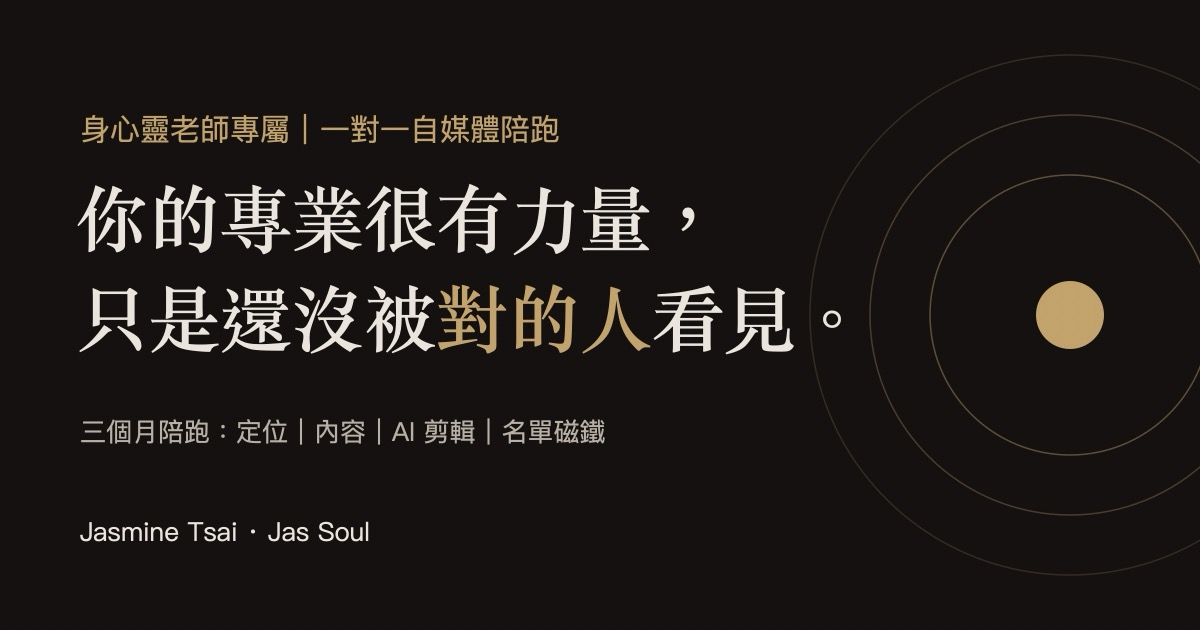
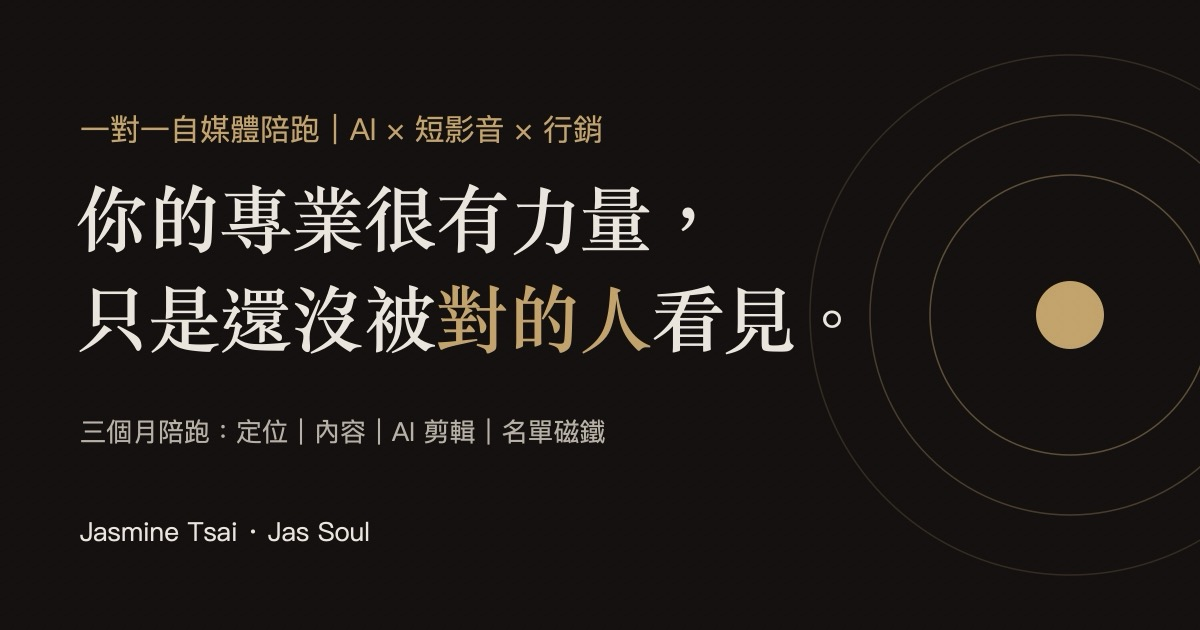
Open coaching page to all personal brands, not only spiritual teachers

Changed region(s): [[0.0617, 0.181, 0.5242, 0.2413]]

diff --git a/index.html b/index.html
@@ -3,14 +3,14 @@
 <head>
 <meta charset="utf-8">
 <meta name="viewport" content="width=device-width, initial-scale=1">
-<title>AI × 自媒體 × 行銷陪跑｜身心靈老師專屬 · Jas Soul</title>
-<meta name="description" content="給身心靈與療癒工作者的三個月一對一自媒體陪跑。用 AI 加速、用你的聲音說話，從看見自己，到被看見、被付費。">
-<meta property="og:title" content="AI × 自媒體 × 行銷陪跑｜身心靈老師專屬">
+<title>一對一自媒體陪跑｜AI × 短影音 × 行銷，三個月從定位到被付費 · Jas Soul</title>
+<meta name="description" content="三個月一對一自媒體陪跑，給想經營個人品牌、開始副業或用專業接案的人。每週一堂課加學習單，用 AI 加速、用你的聲音說話，從定位、內容到第一次被付費。">
+<meta property="og:title" content="一對一自媒體陪跑｜三個月，從定位走到被付費">
 <meta property="og:description" content="三個月一對一陪跑：定位、內容、AI 剪輯、名單磁鐵到第一次被付費。教你做，不是幫你做。">
 <meta property="og:image" content="https://selfmedia.jas-soul.com/og.jpg">
 <meta property="og:image:width" content="1200">
 <meta property="og:image:height" content="630">
-<meta property="og:image:alt" content="身心靈老師專屬一對一自媒體陪跑：你的專業很有力量，只是還沒被對的人看見">
+<meta property="og:image:alt" content="一對一自媒體陪跑：你的專業很有力量，只是還沒被對的人看見">
 <meta property="og:url" content="https://selfmedia.jas-soul.com/">
 <meta property="og:type" content="website">
 <meta property="og:locale" content="zh_TW">
@@ -340,9 +340,9 @@ footer a{text-decoration:none;color:var(--on-ink-dim)}footer a:hover{color:var(-
  "@context": "https://schema.org",
  "@type": "Service",
  "@id": "https://selfmedia.jas-soul.com/#service",
- "name": "一對一自媒體陪跑（身心靈老師專屬）",
+ "name": "一對一自媒體陪跑",
  "serviceType": "自媒體經營一對一陪跑",
- "description": "給身心靈與療癒工作者的三個月一對一自媒體陪跑：定位、內容、AI 剪輯、名單磁鐵到第一次被付費。",
+ "description": "三個月一對一自媒體陪跑：定位、內容、AI 剪輯、名單磁鐵到第一次被付費。適合想經營個人品牌、副業或接案的人。",
  "url": "https://selfmedia.jas-soul.com/",
  "image": "https://selfmedia.jas-soul.com/og.jpg",
  "areaServed": {
@@ -352,7 +352,7 @@ footer a{text-decoration:none;color:var(--on-ink-dim)}footer a:hover{color:var(-
  "inLanguage": "zh-Hant",
  "audience": {
   "@type": "Audience",
-  "audienceType": "身心靈老師、療癒工作者"
+  "audienceType": "想經營個人品牌、副業或接案的人"
  },
  "offers": {"@type": "Offer", "name": "三個月一對一陪跑（首期）", "price": "26000", "priceCurrency": "TWD", "url": "https://selfmedia.jas-soul.com/#pricing"},
  "provider": {
@@ -399,9 +399,9 @@ footer a{text-decoration:none;color:var(--on-ink-dim)}footer a:hover{color:var(-
 <section class="hero dark" id="top">
   <div class="wrap hero-grid">
     <div>
-      <span class="pill reveal"><i></i>AI × 自媒體 × 行銷｜身心靈老師專屬陪跑</span>
+      <span class="pill reveal"><i></i>AI × 自媒體 × 行銷｜一對一陪跑</span>
       <h1 class="reveal">你的專業很有力量，<br>只是還沒被<em>對的人</em><span style="white-space:nowrap">看見。</span></h1>
-      <p class="sub reveal">給身心靈老師與療癒工作者的 12 週一對一陪跑。<b>用 AI 加速，用你的聲音說話</b>，把你的天賦做成穩定被看見、被詢問、被付費的自媒體。</p>
+      <p class="sub reveal">給想經營個人品牌、開始副業或用專業接案的你，12 週一對一陪跑。<b>用 AI 加速，用你的聲音說話</b>，把你的專業做成穩定被看見、被詢問、被付費的自媒體。</p>
       <div class="hero-cta reveal">
         <a class="btn btn-gold" href="#apply">聊聊看自己適不適合 <span class="arrow">→</span></a>
         <a class="btn btn-line" href="#curriculum">看 12 週大綱</a>
@@ -431,15 +431,15 @@ footer a{text-decoration:none;color:var(--on-ink-dim)}footer a:hover{color:var(-
   <div class="wrap">
     <div class="section-head reveal">
       <span class="eyebrow">Sound Familiar</span>
-      <h2 class="title">做身心靈這一行，<br>自媒體卡住的地方特別不一樣</h2>
+      <h2 class="title">想經營自媒體，<br>卡住的常常不是努力不夠</h2>
       <p class="lede">不是你不夠努力。是一般的自媒體課，沒有人告訴你這些事怎麼處理。</p>
     </div>
     <div class="pain-list">
-      <div class="pain-row reveal"><h3>「專業有，但發文像在對空氣說話」</h3><p>個案說你很準、很被療癒，社群上卻幾乎沒人互動，也不知道該講什麼。</p></div>
+      <div class="pain-row reveal"><h3>「有專業，但發文像在對空氣說話」</h3><p>客戶說你很專業、很有幫助，社群上卻幾乎沒人互動，也不知道該講什麼。</p></div>
       <div class="pain-row reveal"><h3>「不敢露臉，怕被認識的人看到」</h3><p>家人、同事、前同學都在追蹤名單裡。想被看見，又怕被看見。</p></div>
       <div class="pain-row reveal"><h3>「不想硬銷，談錢又好像違背初心」</h3><p>怕太商業，所以什麼都不敢說清楚；收費標準一改再改，被殺價就心軟。</p></div>
       <div class="pain-row reveal"><h3>「用 AI 寫出來的，不像我」</h3><p>貼上去就是一股罐頭味。你的故事、語氣、判斷，AI 一個都沒有。</p></div>
-      <div class="pain-row reveal"><h3>「怕踩到療效與廣告規範」</h3><p>「保證」「治好」「一定會」，一不小心就寫出來了，又沒人可以問。</p></div>
+      <div class="pain-row reveal"><h3>「不知道什麼能說、什麼不能說」</h3><p>「保證」「最有效」「一定會」，一不小心就寫成誇大的廣告，又沒人可以問。</p></div>
     </div>
     <div class="pivot reveal">
       <p>這門陪跑要做的，是讓你<em>用真實的自己</em>被看見，<br>再用 AI 把「說出來」這件事變輕、變快。</p>
@@ -458,24 +458,24 @@ footer a{text-decoration:none;color:var(--on-ink-dim)}footer a:hover{color:var(-
     <div class="who-grid">
       <article class="who main reveal">
         <span class="tag">主要對象</span>
-        <h3>身心靈與療癒工作者</h3>
-        <p class="d">你的工作建立在信任上，所以你的自媒體也要長得像「你」。我懂這個圈子的語言，也懂怎麼把它說清楚、說安全、說得有人想找你。</p>
-        <div class="roles"><span>塔羅</span><span>脈輪・靈氣</span><span>占星・命理</span><span>諮詢・教練</span><span>身心靈講師</span><span>剛起步的兼職老師</span></div>
+        <h3>想用專業經營個人品牌的人</h3>
+        <p class="d">你的工作建立在信任上，所以你的自媒體也要長得像「你」。我陪你把專業說清楚、說得安全，也說得讓人想找你。</p>
+        <div class="roles"><span>自由工作者・接案者</span><span>講師・教練・顧問</span><span>身心靈與療癒工作者</span><span>小店家・個人品牌</span><span>剛起步的兼職老師</span></div>
         <ul>
           <li>用你自己的語言說專業，不變成罐頭行銷</li>
           <li>學會不硬銷也能讓人來問的賣法</li>
           <li>從單次服務，慢慢走到課程與產品階梯</li>
           <li>處理不敢露臉、不敢開價這些內在卡點</li>
-          <li>寫得有力量，也避開療效與保證式用語</li>
+          <li>寫得有力量，也避開誇大與保證式用語</li>
         </ul>
       </article>
       <article class="who side reveal">
-        <span class="tag">也歡迎</span>
-        <h3>想認真經營自媒體的人</h3>
-        <p class="d">不一定是身心靈背景。只要你想用真實的自己，建立個人品牌或開始一份副業。</p>
+        <span class="tag">也很適合</span>
+        <h3>想開始副業、還在摸索的人</h3>
+        <p class="d">還沒有明確的服務也沒關係。只要你想用真實的自己，建立個人品牌或開始一份副業。</p>
         <div class="roles"><span>上班族想做副業</span><span>專業工作者</span><span>想不露臉經營</span><span>有帳號但卡關</span></div>
         <ul>
-          <li>同一套 12 週流程，內在卡點也一起陪你處理</li>
+          <li>從找到方向開始，內在卡點也一起陪你處理</li>
           <li>找到定位、固定產出、第一次有人來問</li>
           <li>AI 與短影音的做法，一樣完整帶你做</li>
         </ul>
@@ -493,7 +493,7 @@ footer a{text-decoration:none;color:var(--on-ink-dim)}footer a:hover{color:var(-
     </div>
     <div class="diff-rows">
       <div class="diff-row reveal"><span class="no">01</span><h3>教你做，不是幫你做</h3><p>我是教練，不是代操。我陪你找定位、教你方法、回饋你的作品，內容由你自己產出，聲音從頭到尾都是你的。</p></div>
-      <div class="diff-row reveal"><span class="no">02</span><h3>懂身心靈的行銷人</h3><p>產品行銷出身，自己也是脈輪解讀療癒師。你不用先把「靈性」翻譯成「商業」給我聽，兩邊的語言我都會，也會提醒廣告與療效用語的界線。</p></div>
+      <div class="diff-row reveal"><span class="no">02</span><h3>懂行銷，也懂人的卡點</h3><p>產品行銷出身，也長期做一對一的陪伴。不只教你方法，也陪你處理不敢露臉、不敢開價這些卡點，並提醒廣告與誇大用語的界線。</p></div>
       <div class="diff-row reveal"><span class="no">03</span><h3>AI 是工具，聲音是你的</h3><p>先有定位，再用 AI。我自己每天用 AI 做產品、剪影片，教你的是整套流程，而不是一份 prompt 清單。</p></div>
       <div class="diff-row reveal"><span class="no">04</span><h3>內在卡點一起處理</h3><p>不敢露臉、不敢開價、沒人看就想放棄，這些才是卡關的真正原因。我用教練式的提問，陪你一關一關處理。</p></div>
       <div class="diff-row reveal"><span class="no">05</span><h3>終點是被付費，不是漲粉</h3><p>12 週從目標卡走到服務定價與成交對話。粉絲數只是過程，有人來問、有人付費才是結果。</p></div>
@@ -517,7 +517,7 @@ footer a{text-decoration:none;color:var(--on-ink-dim)}footer a:hover{color:var(-
       <div class="ai-row" role="row">
         <div class="step" role="cell">選題<small>第 3–4 週</small></div>
         <div class="by-ai" role="cell"><span class="lbl">AI</span>用你的受眾語言，一次發散 30 個題目的候選</div>
-        <div class="by-me" role="cell"><span class="lbl">你</span>用真實的個案經驗與觀點，篩出真正想說的</div>
+        <div class="by-me" role="cell"><span class="lbl">你</span>用真實的經驗與觀點，篩出真正想說的</div>
       </div>
       <div class="ai-row" role="row">
         <div class="step" role="cell">文案<small>第 5–6 週</small></div>
@@ -659,7 +659,7 @@ footer a{text-decoration:none;color:var(--on-ink-dim)}footer a:hover{color:var(-
       <div class="beat"><span class="day">ASYNC</span><h3>非同步陪伴</h3><p>我看你的作品、錄語音回饋，LINE 上的小問題在固定時段回覆。</p><span class="t">每週 1 小時</span></div>
       <div class="beat"><span class="day">WORKSHEET</span><h3>學習單</h3><p>每堂課一份線上學習單，課後跟著做、填完交回，我幫你批改，給你具體的修改建議。</p><span class="t">每堂一份</span></div>
     </div>
-    <p class="how-note reveal">另外還有：第 6 週期中檢查、第 6–8 週低潮陪伴、每堂線上學習單與個人紀錄，以及廣告、療效用語與版權的提醒。</p>
+    <p class="how-note reveal">另外還有：第 6 週期中檢查、第 6–8 週低潮陪伴、每堂線上學習單與個人紀錄，以及廣告、誇大用語與版權的提醒。</p>
   </div>
 </section>
 
@@ -670,15 +670,15 @@ footer a{text-decoration:none;color:var(--on-ink-dim)}footer a:hover{color:var(-
     <div class="about-text">
       <div class="reveal">
         <span class="eyebrow">About Jasmine</span>
-        <h2 class="title">從幫別人說故事，<br>到陪人看見自己</h2>
-        <p class="big">我曾在科技業擔任產品行銷與產品經理，後來協助講師打造線上課程。接著我認識了自己<em>感受訊息、轉譯與解讀</em>的天賦，成為脈輪解讀療癒師。</p>
+        <h2 class="title">從幫品牌說故事，<br>到陪你被看見</h2>
+        <p class="big">我曾在科技業擔任產品行銷與產品經理，經營過品牌社群和自己的個人品牌，也協助講師打造 20+ 堂線上課程。這些年我最常做的事，就是<em>找出受眾在意什麼，再讓對的人看見你</em>。</p>
         <p class="p">現在我把這些放在一起：用行銷的結構幫你說清楚，用教練式的提問陪你看見卡點，再用 AI 把「說出來」變得輕鬆。我自己的帳號，露臉與不露臉都做過，企劃、口說、剪片都是自己來，所以我教的每一步，都是我走過的。</p>
       </div>
       <div class="skills reveal">
         <div class="skill"><div class="from"><b>科技業產品行銷、產品經理</b>定位、受眾研究、數據與漏斗</div><div class="to">先搞清楚「誰需要你」，再決定說什麼、賣什麼</div></div>
         <div class="skill"><div class="from"><b>參與 20+ 堂線上課程製作</b>把專業整理成別人學得完的結構</div><div class="to">把你的經驗變成服務、迷你課、名單磁鐵與產品階梯</div></div>
         <div class="skill"><div class="from"><b>Threads 3 個月 457 萬瀏覽</b>選題企劃與標題設計</div><div class="to">鉤子、選題、內容配比，讓內容觸及非粉絲</div></div>
-        <div class="skill"><div class="from"><b>脈輪解讀・天使靈氣療癒</b>陪人看見自己的模式</div><div class="to">處理不敢露臉、不敢定價的內在卡點，懂身心靈圈的語言與界線</div></div>
+        <div class="skill"><div class="from"><b>教練式陪伴・脈輪解讀</b>陪人看見自己的模式</div><div class="to">處理不敢露臉、不敢定價的內在卡點，也懂身心靈、療癒工作者的語言</div></div>
         <div class="skill"><div class="from"><b>用 AI 做過 3 個產品</b>成功日記、啾啾日記、七脈輪感情導航</div><div class="to">把 AI 放進你的日常流程，也能把你的專業做成互動測驗</div></div>
       </div>
       <div class="links reveal">
@@ -760,7 +760,7 @@ footer a{text-decoration:none;color:var(--on-ink-dim)}footer a:hover{color:var(-
     <div class="faq reveal">
       <details open><summary>我完全不懂 AI，也跟得上嗎？</summary><p>可以。你只需要會用手機、會打字。每一個 AI 步驟我都會帶著你做，從你自己的內容開始，不用先學一堆工具。</p></details>
       <details><summary>我不想露臉，可以嗎？</summary><p>可以。「被看見」有兩條路：不露臉（圖文、Threads、配音加畫面）和露臉（口說影片、Reels）。第 1 週我們會先決定你的曝光方式，不是永遠，先選 3 個月，之後可以調整。</p></details>
-      <details><summary>我不是身心靈背景，適合嗎？</summary><p>適合。同一套 12 週流程，內在卡點（不敢表達、不敢被看見、不敢定價）我用教練式的提問陪你處理，不需要任何靈性背景。</p></details>
+      <details><summary>我還沒開始接案，或只是上班族，也適合嗎？</summary><p>適合。陪跑從你現在的專業或想發展的方向開始，第一次聊的時候會一起確認從哪一關切入。不敢表達、不敢被看見、不敢定價這些內在卡點，我也會用教練式的提問陪你處理。</p></details>
       <details><summary>你會幫我寫文案、幫我剪片嗎？</summary><p>不會，這是我刻意的選擇。我教你方法、陪你做、回饋你的作品，內容由你自己產出。這樣三個月後，你才是真的「會」，而不是依賴我。</p></details>
       <details><summary>我每週要花多少時間？</summary><p>除了每週約 2 小時的會談與回饋，你需要固定留時間創作與練習。一開始聊的時候，我們會依你的工作與生活，一起盤點現實可行的時數，再訂目標，不會訂一個你做不到的版本。</p></details>
       <details><summary>需要準備什麼設備？</summary><p>一支手機就能開始拍攝與發文。如果想用 AI 剪輯流程，需要 Claude 付費方案。</p></details>
